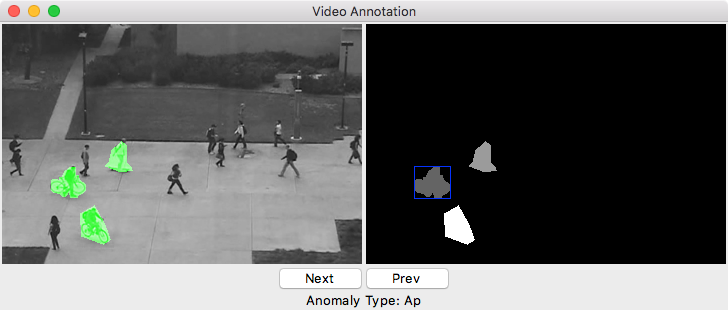
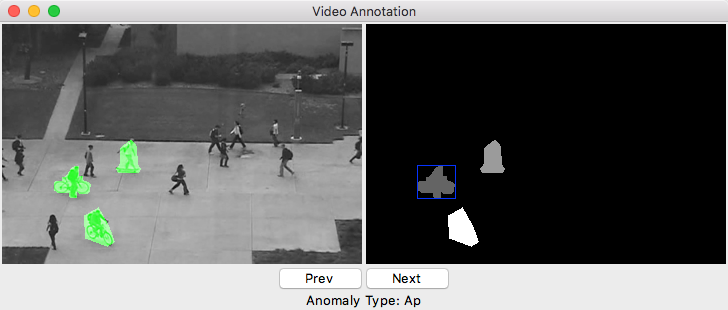
fix prev next position

diff --git a/View.py b/View.py
@@ -31,10 +31,10 @@ class View:
         self.bottomKeysFrame.pack(side='top')
 
         self.btPrev = ttk.Button(self.bottomKeysFrame, text='Prev')
-        self.btPrev.pack(side='right')
+        self.btPrev.pack(side='left')
 
         self.btNext = ttk.Button(self.bottomKeysFrame, text='Next')
-        self.btNext.pack(side='left')
+        self.btNext.pack(side='right')
 
         self.statusFrame = ttk.Frame(self.bgFrame)
         self.statusFrame.pack(side='bottom')

diff --git a/Model.py b/Model.py
@@ -100,7 +100,7 @@ class Model:
         if self.delete:
             self.gt[row1:row2+1, col1:col2+1] = 0
         else:
-            self.gt[row1:row2+1, col1:col2+1] = 255
+            self.gt[row1:row2+1, col1:col2+1] = self.anomalyTypeDict[self.anomalySelectedType]
 
     def fill(self):
         self.gt = self.imfill(self.gt)
